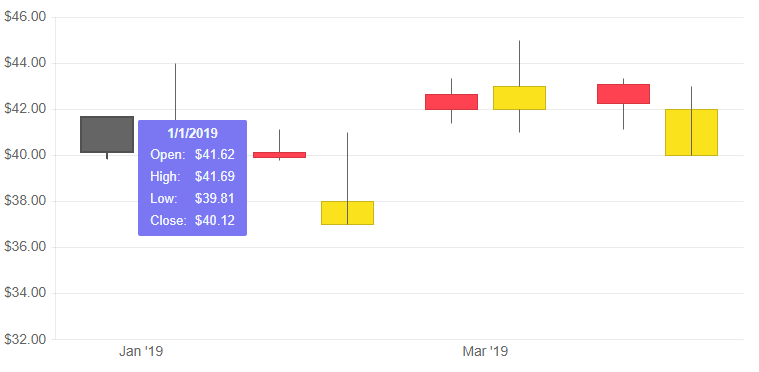
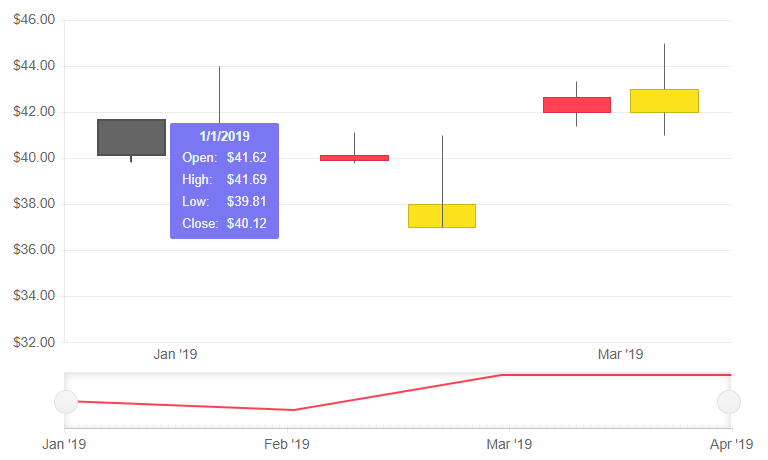
chore(stockchart): added navigator to tooltip overview article

diff --git a/components/stockchart/tooltip/overview.md b/components/stockchart/tooltip/overview.md
@@ -66,6 +66,17 @@ To setup tooltips for the data points of each individual series:
         </StockChartSeries>
     </StockChartSeriesItems>
 
+    <StockChartNavigator>
+        <StockChartNavigatorSeriesItems>
+            <StockChartNavigatorSeries Type="StockChartSeriesType.Line"
+                                       Name="Product 1"
+                                       Data="@StockChartProduct1Data"
+                                       Field="@(nameof(StockDataPoint.High))"
+                                       CategoryField="@(nameof(StockDataPoint.Date))">
+            </StockChartNavigatorSeries>
+        </StockChartNavigatorSeriesItems>
+    </StockChartNavigator>
+
 </TelerikStockChart>
 
 
@@ -179,6 +190,17 @@ To enable the same tooltip for all series:
         </StockChartSeries>
     </StockChartSeriesItems>
 
+    <StockChartNavigator>
+        <StockChartNavigatorSeriesItems>
+            <StockChartNavigatorSeries Type="StockChartSeriesType.Line"
+                                       Name="Product 1"
+                                       Data="@StockChartProduct1Data"
+                                       Field="@(nameof(StockDataPoint.High))"
+                                       CategoryField="@(nameof(StockDataPoint.Date))">
+            </StockChartNavigatorSeries>
+        </StockChartNavigatorSeriesItems>
+    </StockChartNavigator>
+
 </TelerikStockChart>
 
 
@@ -194,19 +216,19 @@ To enable the same tooltip for all series:
     public async Task GenerateChartData()
     {
         StockChartProduct1Data = new List<StockDataPoint>()
-{
-            new StockDataPoint(new DateTime(2019, 1, 1), (decimal)41.62, (decimal)40.12, (decimal)41.69, (decimal)39.81, 2632000),
-            new StockDataPoint(new DateTime(2019, 2, 1), (decimal)39.88, (decimal)40.12, (decimal)41.12, (decimal)39.75, 3584700),
-            new StockDataPoint(new DateTime(2019, 3, 1), (decimal)42, (decimal)42.62, (decimal)43.31, (decimal)41.38, 7631700),
-            new StockDataPoint(new DateTime(2019, 4, 1), (decimal)42.25, (decimal)43.06, (decimal)43.31, (decimal)41.12, 4922200),
+        {
+            new StockDataPoint(new DateTime(2019, 1, 1), 41.62m, 40.12m, 41.69m, 39.81m, 2632000),
+            new StockDataPoint(new DateTime(2019, 2, 1), 39.88m, 40.12m, 41.12m, 39.75m, 3584700),
+            new StockDataPoint(new DateTime(2019, 3, 1), 42m, 42.62m, 43.31m, 41.38m, 7631700),
+            new StockDataPoint(new DateTime(2019, 4, 1), 42.25m, 43.06m, 43.31m, 41.12m, 4922200)
         };
 
         StockChartProduct2Data = new List<StockDataPoint>()
-    {
-            new StockDataPoint(new DateTime(2019, 1, 1), (decimal)39, (decimal)38, (decimal)44, (decimal)37, 26320),
-            new StockDataPoint(new DateTime(2019, 2, 1), (decimal)37, (decimal)38, (decimal)41, (decimal)40, 35847),
-            new StockDataPoint(new DateTime(2019, 3, 1), (decimal)42, (decimal)43, (decimal)45, (decimal)41, 76317),
-            new StockDataPoint(new DateTime(2019, 4, 1), (decimal)40, (decimal)42, (decimal)43, (decimal)42, 49222),
+        {
+            new StockDataPoint(new DateTime(2019, 1, 1), 39m, 38m, 44m, 37m, 26320),
+            new StockDataPoint(new DateTime(2019, 2, 1), 37m, 38m, 41m, 40m, 35847),
+            new StockDataPoint(new DateTime(2019, 3, 1), 42m, 43m, 45m, 41m, 76317),
+            new StockDataPoint(new DateTime(2019, 4, 1), 40m, 42m, 43m, 42m, 49222)
         };
 
         await Task.FromResult(StockChartProduct1Data);
@@ -299,6 +321,17 @@ You can customize the appearance of the individual series tooltip by using:
         </StockChartSeries>
     </StockChartSeriesItems>
 
+    <StockChartNavigator>
+        <StockChartNavigatorSeriesItems>
+            <StockChartNavigatorSeries Type="StockChartSeriesType.Line"
+                                       Name="Product 1"
+                                       Data="@StockChartProduct1Data"
+                                       Field="@(nameof(StockDataPoint.High))"
+                                       CategoryField="@(nameof(StockDataPoint.Date))">
+            </StockChartNavigatorSeries>
+        </StockChartNavigatorSeriesItems>
+    </StockChartNavigator>
+
 </TelerikStockChart>
 
 
@@ -314,19 +347,19 @@ You can customize the appearance of the individual series tooltip by using:
     public async Task GenerateChartData()
     {
         StockChartProduct1Data = new List<StockDataPoint>()
-{
-            new StockDataPoint(new DateTime(2019, 1, 1), (decimal)41.62, (decimal)40.12, (decimal)41.69, (decimal)39.81, 2632000),
-            new StockDataPoint(new DateTime(2019, 2, 1), (decimal)39.88, (decimal)40.12, (decimal)41.12, (decimal)39.75, 3584700),
-            new StockDataPoint(new DateTime(2019, 3, 1), (decimal)42, (decimal)42.62, (decimal)43.31, (decimal)41.38, 7631700),
-            new StockDataPoint(new DateTime(2019, 4, 1), (decimal)42.25, (decimal)43.06, (decimal)43.31, (decimal)41.12, 4922200),
+        {
+            new StockDataPoint(new DateTime(2019, 1, 1), 41.62m, 40.12m, 41.69m, 39.81m, 2632000),
+            new StockDataPoint(new DateTime(2019, 2, 1), 39.88m, 40.12m, 41.12m, 39.75m, 3584700),
+            new StockDataPoint(new DateTime(2019, 3, 1), 42m, 42.62m, 43.31m, 41.38m, 7631700),
+            new StockDataPoint(new DateTime(2019, 4, 1), 42.25m, 43.06m, 43.31m, 41.12m, 4922200)
         };
 
         StockChartProduct2Data = new List<StockDataPoint>()
-{
-            new StockDataPoint(new DateTime(2019, 1, 1), (decimal)39, (decimal)38, (decimal)44, (decimal)37, 26320),
-            new StockDataPoint(new DateTime(2019, 2, 1), (decimal)37, (decimal)38, (decimal)41, (decimal)40, 35847),
-            new StockDataPoint(new DateTime(2019, 3, 1), (decimal)42, (decimal)43, (decimal)45, (decimal)41, 76317),
-            new StockDataPoint(new DateTime(2019, 4, 1), (decimal)40, (decimal)42, (decimal)43, (decimal)42, 49222),
+        {
+            new StockDataPoint(new DateTime(2019, 1, 1), 39m, 38m, 44m, 37m, 26320),
+            new StockDataPoint(new DateTime(2019, 2, 1), 37m, 38m, 41m, 40m, 35847),
+            new StockDataPoint(new DateTime(2019, 3, 1), 42m, 43m, 45m, 41m, 76317),
+            new StockDataPoint(new DateTime(2019, 4, 1), 40m, 42m, 43m, 42m, 49222)
         };
 
         await Task.FromResult(StockChartProduct1Data);
@@ -429,6 +462,17 @@ The available series data point information in the `context` is:
         </StockChartSeries>
     </StockChartSeriesItems>
 
+    <StockChartNavigator>
+        <StockChartNavigatorSeriesItems>
+            <StockChartNavigatorSeries Type="StockChartSeriesType.Line"
+                                       Name="Product 1"
+                                       Data="@StockChartProduct1Data"
+                                       Field="@(nameof(StockDataPoint.High))"
+                                       CategoryField="@(nameof(StockDataPoint.Date))">
+            </StockChartNavigatorSeries>
+        </StockChartNavigatorSeriesItems>
+    </StockChartNavigator>
+
 </TelerikStockChart>
 
 
@@ -444,19 +488,19 @@ The available series data point information in the `context` is:
     public async Task GenerateChartData()
     {
         StockChartProduct1Data = new List<StockDataPoint>()
-{
-            new StockDataPoint(new DateTime(2019, 1, 1), (decimal)41.62, (decimal)40.12, (decimal)41.69, (decimal)39.81, 2632000),
-            new StockDataPoint(new DateTime(2019, 2, 1), (decimal)39.88, (decimal)40.12, (decimal)41.12, (decimal)39.75, 3584700),
-            new StockDataPoint(new DateTime(2019, 3, 1), (decimal)42, (decimal)42.62, (decimal)43.31, (decimal)41.38, 7631700),
-            new StockDataPoint(new DateTime(2019, 4, 1), (decimal)42.25, (decimal)43.06, (decimal)43.31, (decimal)41.12, 4922200),
+        {
+            new StockDataPoint(new DateTime(2019, 1, 1), 41.62m, 40.12m, 41.69m, 39.81m, 2632000),
+            new StockDataPoint(new DateTime(2019, 2, 1), 39.88m, 40.12m, 41.12m, 39.75m, 3584700),
+            new StockDataPoint(new DateTime(2019, 3, 1), 42m, 42.62m, 43.31m, 41.38m, 7631700),
+            new StockDataPoint(new DateTime(2019, 4, 1), 42.25m, 43.06m, 43.31m, 41.12m, 4922200)
         };
 
         StockChartProduct2Data = new List<StockDataPoint>()
-    {
-            new StockDataPoint(new DateTime(2019, 1, 1), (decimal)39, (decimal)38, (decimal)44, (decimal)37, 26320),
-            new StockDataPoint(new DateTime(2019, 2, 1), (decimal)37, (decimal)38, (decimal)41, (decimal)40, 35847),
-            new StockDataPoint(new DateTime(2019, 3, 1), (decimal)42, (decimal)43, (decimal)45, (decimal)41, 76317),
-            new StockDataPoint(new DateTime(2019, 4, 1), (decimal)40, (decimal)42, (decimal)43, (decimal)42, 49222),
+        {
+            new StockDataPoint(new DateTime(2019, 1, 1), 39m, 38m, 44m, 37m, 26320),
+            new StockDataPoint(new DateTime(2019, 2, 1), 37m, 38m, 41m, 40m, 35847),
+            new StockDataPoint(new DateTime(2019, 3, 1), 42m, 43m, 45m, 41m, 76317),
+            new StockDataPoint(new DateTime(2019, 4, 1), 40m, 42m, 43m, 42m, 49222)
         };
 
         await Task.FromResult(StockChartProduct1Data);
